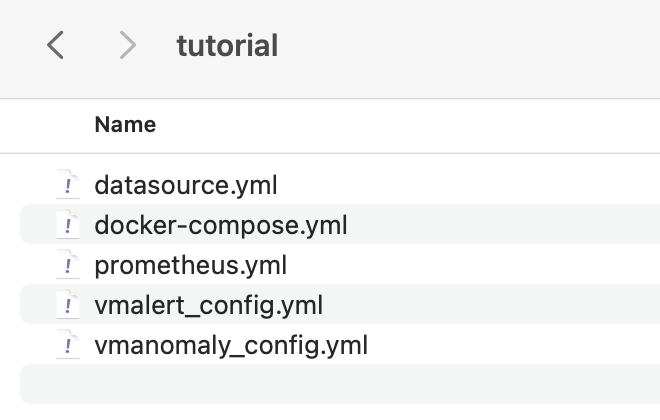
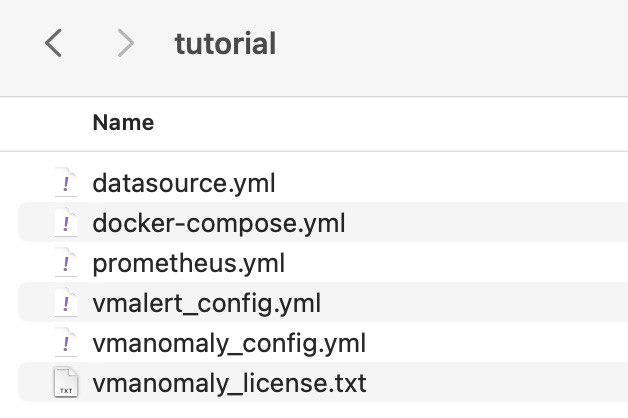
vmanomaly guide docker compose run fix according licensing (#4876)
* docker-compose run fix according to licensing

* public v1.5.0 of vmanomaly

* new file list image

* 1.93.1 version of VM

diff --git a/docs/guides/guide-vmanomaly-vmalert.md b/docs/guides/guide-vmanomaly-vmalert.md
@@ -11,10 +11,11 @@ aliases:
 # Getting started with vmanomaly
 
 **Prerequisites**
+- *vmanomaly* is a part of enterprise package. You can get license key [here](https://victoriametrics.com/products/enterprise/trial) to try this tutorial.
 - In the tutorial, we'll be using the following VictoriaMetrics components:
-  -  [VictoriaMetrics](https://docs.victoriametrics.com/Single-server-VictoriaMetrics.html) (v.1.83.1)
-  -  [vmalert](https://docs.victoriametrics.com/vmalert.html) (v.1.83.1)
-  -  [vmagent](https://docs.victoriametrics.com/vmagent.html) (v.1.83.1)
+  -  [VictoriaMetrics](https://docs.victoriametrics.com/Single-server-VictoriaMetrics.html) (v.1.93.1)
+  -  [vmalert](https://docs.victoriametrics.com/vmalert.html) (v.1.93.1)
+  -  [vmagent](https://docs.victoriametrics.com/vmagent.html) (v.1.93.1)
   
   If you're unfamiliar with the listed components, please read [QuickStart](https://docs.victoriametrics.com/Quick-Start.html) first.
 - It is assumed that you are familiar with [Grafana](https://grafana.com/)(v.9.3.1) and [Docker](https://docs.docker.com/get-docker/) and [Docker Compose](https://docs.docker.com/compose/).
@@ -164,6 +165,7 @@ As the result of running vmanomaly, it produces the following metrics:
 Here is an example of how output metric will be written into VictoriaMetrics:
 `anomaly_score{for="node_cpu_rate", cpu="0", instance="node-xporter:9100", job="node-exporter", mode="idle"} 0.85`
 
+
 ____________________________________________
 
 ## 7. vmalert configuration
@@ -251,8 +253,14 @@ scrape_configs:
 
 </div>
 
+### vmanomaly licencing
+We are going to use license stored locally in file `vmanomaly_licence.txt` with key in it.
+You can explore other license options [here](https://docs.victoriametrics.com/vmanomaly.html#licensing)
+
+
 ### Docker-compose
-Let's wrap it all up together into the `docker-compose.yml` file
+
+Let's wrap it all up together into the `docker-compose.yml` file.
 
 <div class="with-copy" markdown="1">
 
@@ -277,7 +285,7 @@ services:
   
   victoriametrics:
     container_name: victoriametrics
-    image: victoriametrics/victoria-metrics:v1.83.1
+    image: victoriametrics/victoria-metrics:v1.93.1
     ports:
       - 8428:8428
       - 8089:8089
@@ -337,7 +345,7 @@ services:
     restart: always
   vmanomaly:
     container_name: vmanomaly
-    image: us-docker.pkg.dev/victoriametrics-test/public/vmanomaly-trial:v1.3.0
+    image: us-docker.pkg.dev/victoriametrics-test/public/vmanomaly-trial:v1.5.0
     depends_on:
       - "victoriametrics"
     ports:
@@ -347,7 +355,11 @@ services:
     restart: always
     volumes:
       - ./vmanomaly_config.yml:/config.yaml
-    command: [ "/config.yaml" ]
+      - ./vmanomaly_license.txt:/license.txt
+    platform: "linux/amd64"
+    command: 
+      - "/config.yaml"
+      - "--license-file=/license.txt"
 
   node-exporter:
     image: quay.io/prometheus/node-exporter:latest
@@ -384,6 +396,18 @@ docker-compose up -d
 ```
 
 </div>
+
+
+To check if vmanomaly is up and running you can check docker logs:
+
+<div class="with-copy" markdown="1">
+
+```
+docker logs vmanomaly
+```
+
+</div>
+
 
 ___________________________________________________________
 
